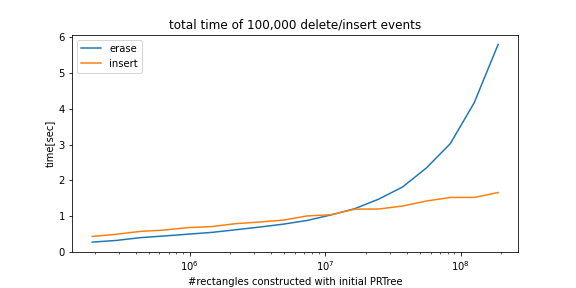
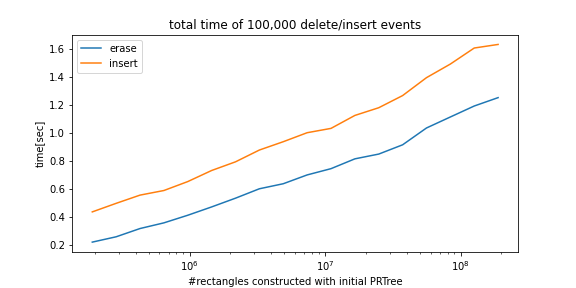
fix

diff --git a/cpp/prtree.h b/cpp/prtree.h
@@ -219,15 +219,12 @@ class Leaf : Uncopyable{
 
     void del(const T& key, const BB& target){
       if (unlikely(mbb(target))){
-        for (auto it = data.begin(); it != data.end();++it){
-          if (unlikely(it->second(target) && it->first == key)){
-            it = data.erase(it);
-            break;
-          }
-        }
+        auto remove_it = std::remove_if(data.begin(), data.end(), [&](auto& datum){
+              return datum.second(target) && datum.first == key;
+            });
+        data.erase(remove_it, data.end());
       }
     }
-
 
 };
 

diff --git a/setup.py b/setup.py
@@ -80,7 +80,7 @@ class CMakeBuild(build_ext):
 
 setup(
     name='python_prtree',
-    version='0.2.2',
+    version='0.2.3',
     license='MIT',
     description='Python implementation of Priority R-Tree',
     author='atksh',
